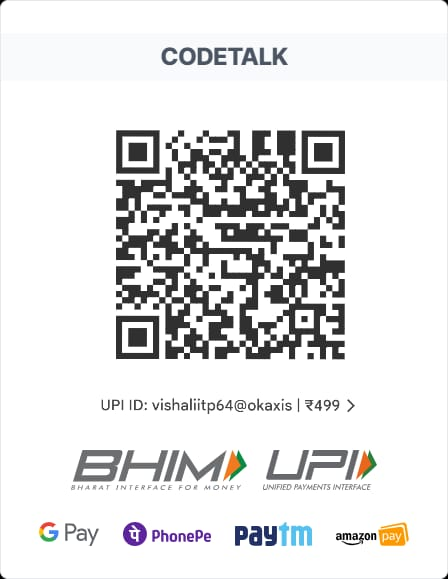
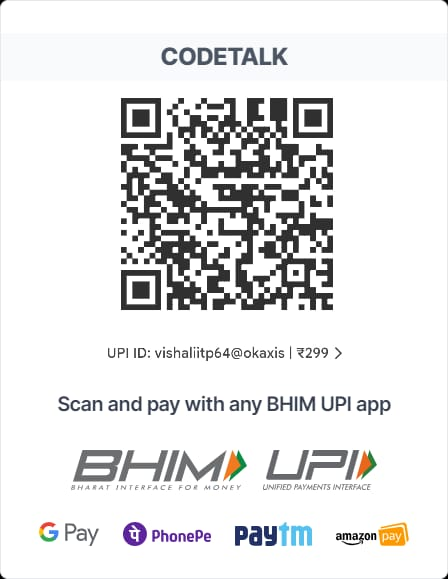
made price variable

Changed region(s): [[0.25, 0.1554, 0.7812, 0.6218], [0.125, 0.6839, 0.875, 0.715]]

diff --git a/src/components/RnB.js b/src/components/RnB.js
@@ -3,10 +3,12 @@ import { Link } from 'react-router-dom';
 import './css/RnB.css'
 import './../App.css'
 
+import { price,strikePrice,timerTime} from '../Navs/Globalvars';
+
 const NewTimer = () => {
   const [timerValue, setTimerValue] = useState(() => {
     const savedValue = sessionStorage.getItem('timerValue');
-    return savedValue ? parseInt(savedValue, 10) : 3700; // Change the initial value to 60 seconds
+    return savedValue ? parseInt(savedValue, 10) : 3700; // Change the initial value to 3700 seconds
   });
 
   const [isRunning, setIsRunning] = useState(true);
@@ -23,7 +25,7 @@ const NewTimer = () => {
 
   // Function to reset the timer
   const resetTimer = () => {
-    setTimerValue(3700); // Reset the timer to 375 seconds
+    setTimerValue(3700); // Reset the timer to 3700 seconds
     setIsRunning(true);
   };
 
@@ -60,7 +62,7 @@ const NewTimer = () => {
             <Link className="registerLink" to="/register">
               <div className="registerbutton">
                 <div className="registerText">
-                  Register now for {timerValue? <span>₹499 <strike>₹999</strike></span>:'₹999'}
+                  Register now for {timerValue? <span>₹{price} <strike>₹{strikePrice}</strike></span>:'₹999'}
                 </div>
               </div>
             </Link>

diff --git a/src/components/RnBB.js b/src/components/RnBB.js
@@ -3,10 +3,12 @@ import React, { useState, useEffect } from "react";
 import './../App.css'
 import './css/RnBB.css'
 
+import {price, strikePrice, } from './../Navs/Globalvars'
+
 const NewTimer = () => {
   const [timerValue, setTimerValue] = useState(() => {
     const savedValue = sessionStorage.getItem("timerValue");
-    return savedValue ? parseInt(savedValue, 10) : 3700; // Change the initial value to 60 seconds
+    return savedValue ? parseInt(savedValue, 10) : 3700; // Change the initial value to 3700 seconds
   });
 
   const [isRunning, setIsRunning] = useState(true);
@@ -58,10 +60,10 @@ const NewTimer = () => {
       <div className="bottomRegisterOffer">
         <div className="bottomOffer">
           <div className="boPricebox">
-          {timerValue? <span> <div className="boPrice">₹499</div>
+          {timerValue? <span> <div className="boPrice">₹{price}</div>
             <div className="boPricestrike">
               <strike>₹999</strike>
-            </div></span>:<div className="boPrice">₹999</div>}
+            </div></span>:<div className="boPrice">₹{strikePrice}</div>}
           </div>
           <div className="boTimerboox">
             <div className="botimerText">

diff --git a/src/components/Whenwhere.js b/src/components/Whenwhere.js
@@ -1,6 +1,7 @@
 import React from 'react'
 import './../App.css'
 import './css/Whenwhere.css'
+import { wwDate,wwTime } from '../Navs/Globalvars'
 
 function Whenwhere() {
   return (
@@ -9,11 +10,11 @@ function Whenwhere() {
           <div className="whenwhere">
             <div className="when">
               <div className="calendar"></div>
-              <div className="date">1st Aug</div>
+              <div className="date">{wwDate}</div>
             </div>
             <div className="where">
               <div className="clock"></div>
-              <div className="time">07:00PM</div>
+              <div className="time">{wwTime}</div>
             </div>
           </div>
 

diff --git a/src/components/EnrollNow.js b/src/components/EnrollNow.js
@@ -4,6 +4,8 @@ import "./css/Wwyl.css";
 import "./../App.css";
 import { Link } from "react-router-dom";
 
+import { price,strikePrice } from "../Navs/Globalvars";
+
 const EnrollNow = () => {
   return (
     <>
@@ -16,8 +18,8 @@ const EnrollNow = () => {
             <div className="ENheading">30 Days DSA Bootcamp</div>
 
             <div className="price">
-              <span className="ENpricegreen">₹499</span>{" "}
-              <strike className="ENprice">₹999</strike>
+              <span className="ENpricegreen">₹{price}</span>{" "}
+              <strike className="ENprice">₹{strikePrice}</strike>
             </div>
 
             <div className="ENP">

diff --git a/src/Navs/Homepage.js b/src/Navs/Homepage.js
@@ -23,6 +23,7 @@ import Classpic from "../components/Classpic";
 // import calendar from './../../Assests/symbols/calendar.png'
 // import clock from './../../Assests/symbols/clock.png'
 
+
 const Homepage = () => {
   return (
     <div>

diff --git a/src/Navs/Globalvars.js b/src/Navs/Globalvars.js
@@ -1,0 +1,7 @@
+const price =299;
+const strikePrice=999;
+const wwDate="16th Aug";
+const wwTime="07:00PM";
+var timerTime=3700;    //in sec
+
+export {price, strikePrice, wwDate, wwTime, timerTime}
